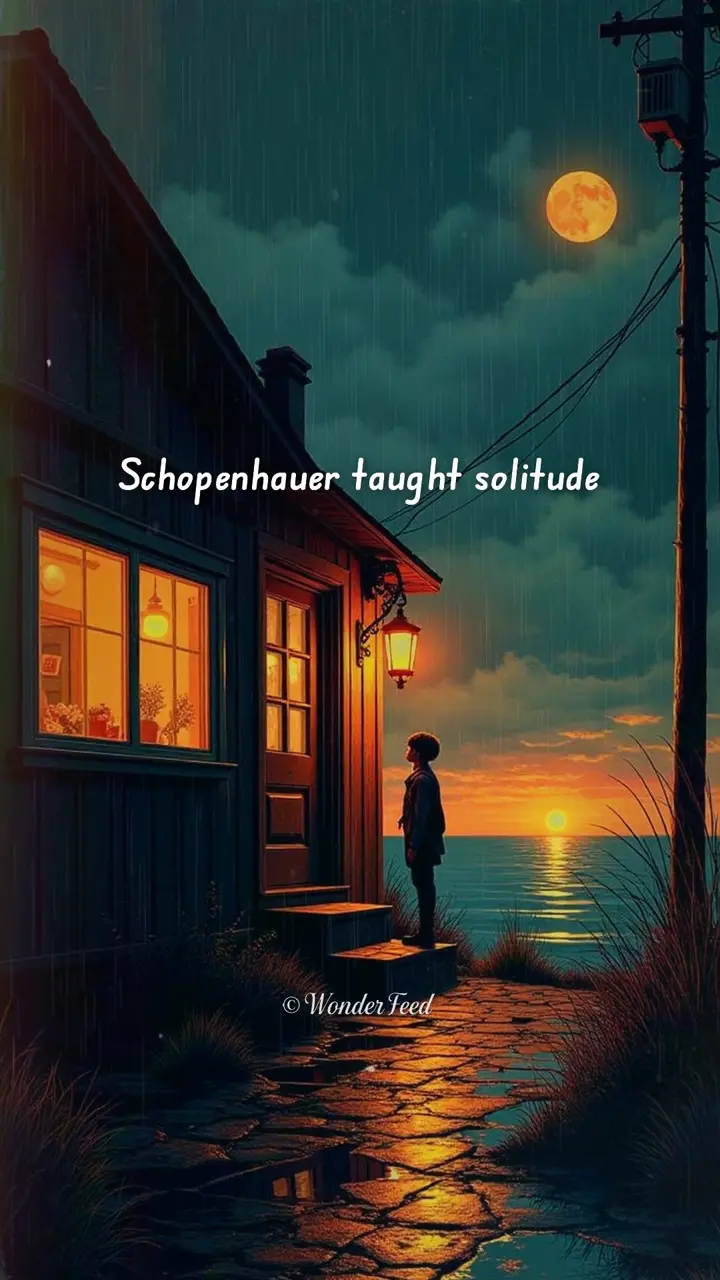
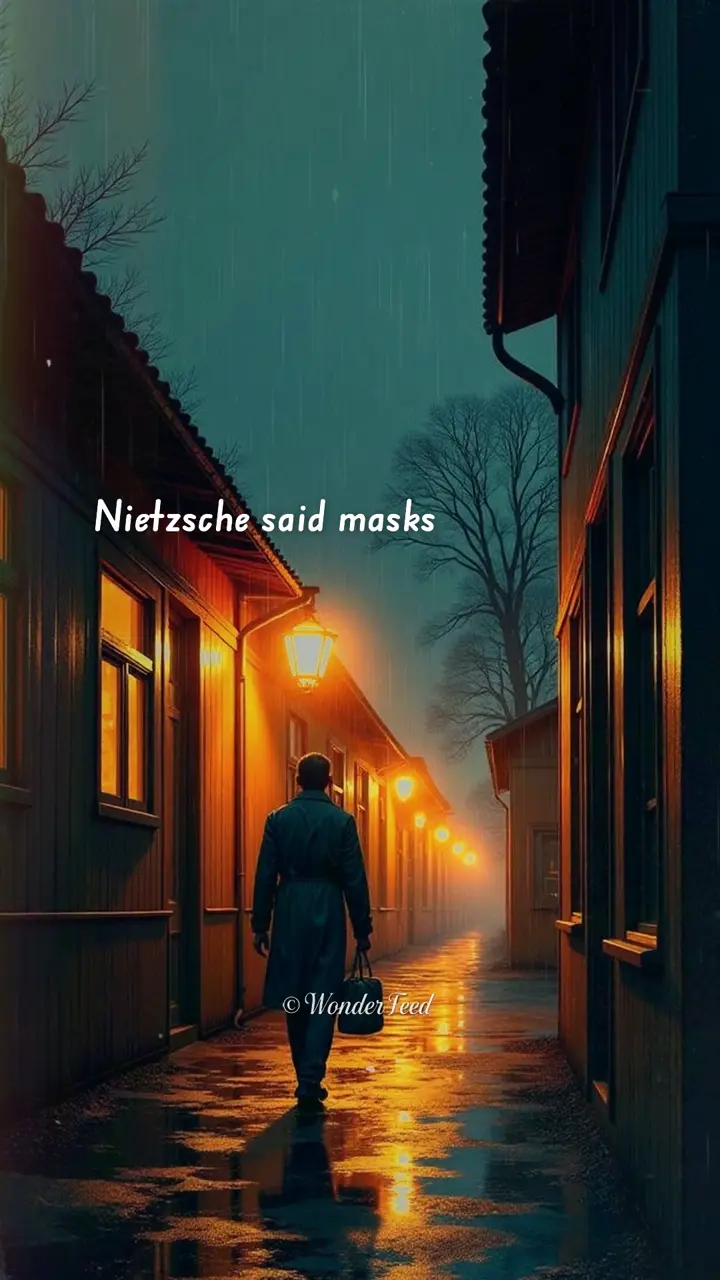
Update projects

diff --git a/lib/registry.ts b/lib/registry.ts
@@ -229,16 +229,20 @@ export const PROJECT_B2_VIDEOS: Record<string, ProjectB2VideoEntry> = {
   master_mei: `${B2_PUBLIC_BASE}/reel_your_mind_s_true_owner_isn_t_you_v30.mp4`,
   aiwake: `${B2_PUBLIC_BASE}/aiwake_debate_20260902_074022_cc7f88.mp4`,
   wonder_feed: [
-    `${B2_PUBLIC_BASE}/lofi_reel_grief_learning_to_carry_it_20260911_234807_v01.mp4`,
-    `${B2_PUBLIC_BASE}/lofi_reel_perseverance_getting_up_anyway_20260911_231711_v01.mp4`,
-    `${B2_PUBLIC_BASE}/lofi_reel_grief_learning_to_carry_it_20260911_174506_v01.mp4`,
-    `${B2_PUBLIC_BASE}/lofi_reel_distance_silence_that_speaks_20260911_165222_v01.mp4`,
+    `${B2_PUBLIC_BASE}/lofi_reel_grief_learning_to_carry_it_20260912_055532_v01.mp4`,
+    `${B2_PUBLIC_BASE}/lofi_reel_distance_silence_that_speaks_20260912_053648_v01.mp4`,
+    `${B2_PUBLIC_BASE}/lofi_reel_grief_learning_to_carry_it_20260912_051957_v01.mp4`,
+    `${B2_PUBLIC_BASE}/lofi_reel_distance_silence_that_speaks_20260912_050447_v01.mp4`,
+    `${B2_PUBLIC_BASE}/lofi_reel_perseverance_getting_up_anyway_20260912_044140_v01.mp4`,
+    `${B2_PUBLIC_BASE}/lofi_reel_grief_learning_to_carry_it_20260912_041125_v01.mp4`,
   ],
   momma_circle: [
-    `${B2_PUBLIC_BASE}/lofi_reel_self_compassion_good_enough_mother_20260911_235455_v01.mp4`,
-    `${B2_PUBLIC_BASE}/lofi_reel_sleep_routines_as_safety_20260911_232934_v01.mp4`,
-    `${B2_PUBLIC_BASE}/lofi_reel_presence_phones_down_eye_contact_20260911_175224_v01.mp4`,
-    `${B2_PUBLIC_BASE}/lofi_reel_sleep_routines_as_safety_20260911_170117_v01.mp4`,
+    `${B2_PUBLIC_BASE}/lofi_reel_self_compassion_good_enough_mother_20260912_060212_v01.mp4`,
+    `${B2_PUBLIC_BASE}/lofi_reel_presence_phones_down_eye_contact_20260912_054415_v01.mp4`,
+    `${B2_PUBLIC_BASE}/lofi_reel_sleep_routines_as_safety_20260912_052741_v01.mp4`,
+    `${B2_PUBLIC_BASE}/lofi_reel_self_compassion_good_enough_mother_20260912_051136_v01.mp4`,
+    `${B2_PUBLIC_BASE}/lofi_reel_presence_phones_down_eye_contact_20260912_045351_v01.mp4`,
+    `${B2_PUBLIC_BASE}/lofi_reel_sleep_routines_as_safety_20260912_042524_v01.mp4`,
   ],
   endless_summer_paradise: `${B2_PUBLIC_BASE}/The_Terminus_1778730630_V4_LIVE_ULTIMATE_MASTER.mp4`,
 };

diff --git a/components/showcase/Interactive916Player.tsx b/components/showcase/Interactive916Player.tsx
@@ -31,7 +31,7 @@ export default function Interactive916Player({
   const videoRef = useRef<HTMLVideoElement>(null);
   const slideIntervalRef = useRef<ReturnType<typeof setInterval> | null>(null);
   const slideTimeoutRef = useRef<ReturnType<typeof setTimeout> | null>(null);
-  const videos = assets.filter((asset) => asset.kind === "video").slice(0, 5);
+  const videos = assets.filter((asset) => asset.kind === "video").slice(0, 6);
   const stills = assets.filter((asset) => asset.kind === "image").slice(0, 18);
   const isCarousel =
     mediaKind === "carousel" || mediaKind === "image" || (videos.length === 0 && stills.length > 0);
@@ -372,6 +372,8 @@ export default function Interactive916Player({
         <div className="mt-2 flex justify-center gap-3 font-mono text-[9px] text-zinc-500">
           {isCarousel ? (
             <span className="text-emerald-300">ARTWORK ({stills.length})</span>
+          ) : stills.length === 0 ? (
+            <span className="text-emerald-300">VIDEOS ({videos.length})</span>
           ) : (
             <>
               <button

diff --git a/lib/media-discovery.ts b/lib/media-discovery.ts
@@ -129,7 +129,10 @@ export async function discoverProjectMediaAssets(
         source: "external",
       });
     }
-  } else if (!imageOnly) {
+    return assets.filter((asset) => asset.kind === "video").slice(0, 6);
+  }
+
+  if (!imageOnly) {
     if (publicMedia.video) {
       add({
         kind: "video",
@@ -191,7 +194,7 @@ export async function discoverProjectMediaAssets(
   }
 
   return [
-    ...assets.filter((asset) => asset.kind === "video").slice(0, 5),
+    ...assets.filter((asset) => asset.kind === "video").slice(0, 6),
     ...assets.filter((asset) => asset.kind === "image").slice(0, 18),
   ];
 }

diff --git a/scripts/prepare-web-videos.py b/scripts/prepare-web-videos.py
@@ -26,19 +26,23 @@ load_dotenv(OMNI / ".env", override=False)
 
 from agents.media.b2_client import B2VideoUploader  # noqa: E402
 
-# Newest four complete shipped clips per channel (clips/ only — skip Reproved / @Experiments).
+# Newest six complete shipped clips per channel (clips/ only — skip Reproved / @Experiments).
 CLIPS: dict[str, list[Path]] = {
     "wonder_feed": [
-        DRIVE / "wonder_feed" / "clips" / "lofi_reel_grief_learning_to_carry_it_20260911_234807_v01.mp4",
-        DRIVE / "wonder_feed" / "clips" / "lofi_reel_perseverance_getting_up_anyway_20260911_231711_v01.mp4",
-        DRIVE / "wonder_feed" / "clips" / "lofi_reel_grief_learning_to_carry_it_20260911_174506_v01.mp4",
-        DRIVE / "wonder_feed" / "clips" / "lofi_reel_distance_silence_that_speaks_20260911_165222_v01.mp4",
+        DRIVE / "wonder_feed" / "clips" / "lofi_reel_grief_learning_to_carry_it_20260912_055532_v01.mp4",
+        DRIVE / "wonder_feed" / "clips" / "lofi_reel_distance_silence_that_speaks_20260912_053648_v01.mp4",
+        DRIVE / "wonder_feed" / "clips" / "lofi_reel_grief_learning_to_carry_it_20260912_051957_v01.mp4",
+        DRIVE / "wonder_feed" / "clips" / "lofi_reel_distance_silence_that_speaks_20260912_050447_v01.mp4",
+        DRIVE / "wonder_feed" / "clips" / "lofi_reel_perseverance_getting_up_anyway_20260912_044140_v01.mp4",
+        DRIVE / "wonder_feed" / "clips" / "lofi_reel_grief_learning_to_carry_it_20260912_041125_v01.mp4",
     ],
     "momma_circle": [
-        DRIVE / "momma_circle" / "clips" / "lofi_reel_self_compassion_good_enough_mother_20260911_235455_v01.mp4",
-        DRIVE / "momma_circle" / "clips" / "lofi_reel_sleep_routines_as_safety_20260911_232934_v01.mp4",
-        DRIVE / "momma_circle" / "clips" / "lofi_reel_presence_phones_down_eye_contact_20260911_175224_v01.mp4",
-        DRIVE / "momma_circle" / "clips" / "lofi_reel_sleep_routines_as_safety_20260911_170117_v01.mp4",
+        DRIVE / "momma_circle" / "clips" / "lofi_reel_self_compassion_good_enough_mother_20260912_060212_v01.mp4",
+        DRIVE / "momma_circle" / "clips" / "lofi_reel_presence_phones_down_eye_contact_20260912_054415_v01.mp4",
+        DRIVE / "momma_circle" / "clips" / "lofi_reel_sleep_routines_as_safety_20260912_052741_v01.mp4",
+        DRIVE / "momma_circle" / "clips" / "lofi_reel_self_compassion_good_enough_mother_20260912_051136_v01.mp4",
+        DRIVE / "momma_circle" / "clips" / "lofi_reel_presence_phones_down_eye_contact_20260912_045351_v01.mp4",
+        DRIVE / "momma_circle" / "clips" / "lofi_reel_sleep_routines_as_safety_20260912_042524_v01.mp4",
     ],
 }
 

diff --git a/scripts/upload-missing-b2.py b/scripts/upload-missing-b2.py
@@ -26,11 +26,11 @@ UPLOADS: dict[str, Path] = {
     "wonder_feed": DRIVE
     / "wonder_feed"
     / "clips"
-    / "lofi_reel_grief_learning_to_carry_it_20260911_234807_v01.mp4",
+    / "lofi_reel_grief_learning_to_carry_it_20260912_055532_v01.mp4",
     "momma_circle": DRIVE
     / "momma_circle"
     / "clips"
-    / "lofi_reel_self_compassion_good_enough_mother_20260911_235455_v01.mp4",
+    / "lofi_reel_self_compassion_good_enough_mother_20260912_060212_v01.mp4",
     "endless_summer_paradise": ESP_PROD
     / "The_Terminus_1778730630_V4_LIVE"
     / "The_Terminus_1778730630_V4_LIVE_ULTIMATE_MASTER.mp4",
